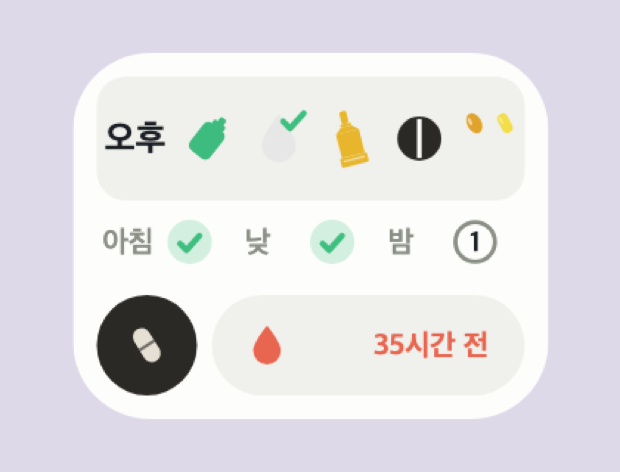
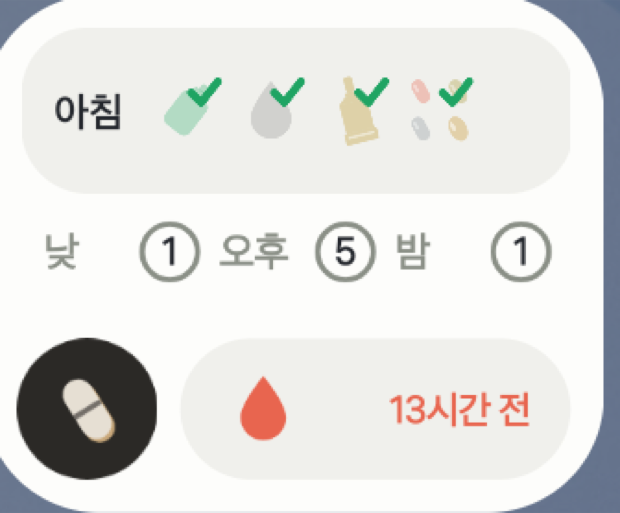
약수첩 위젯 사진을 폰에서 찍은 것으로 (#8)

diff --git a/tools/pull-pillbox.py b/tools/pull-pillbox.py
@@ -48,7 +48,8 @@ for name, body, bg in (("widget-dark", dark, "#1D1F2E"), ("widget-light", light,
                  f'<div style="transform:scale(2.0);transform-origin:center">{body}</div></body></html>', encoding="utf-8")
     shot(h, OUT / f"{name}.png", "420,320"); h.unlink()
 
-# ── 3. 앱 화면 — 설명서용으로 찍은 것을 그대로
+# ── 3. 앱 화면 — 설명서용으로 찍은 것을 그대로. 위젯은 폰에서 찍은 것
+shutil.copy2(DOCS / "img" / "widget.png", OUT / "widget.png")
 for n in ("main_top", "main_tail", "history", "settings_top", "meds", "edit"):
     shrink(DOCS / "img" / f"{n}.png", OUT / f"{n}.png", 620)
 
